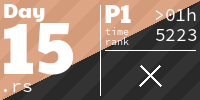
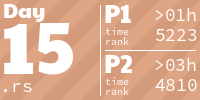
day 15 - part 2

diff --git a/src/day15.rs b/src/day15.rs
@@ -42,6 +42,7 @@ fn p1(input: &str) -> i32 {
                 }
                 // see if we can move them
                 if matrix.get(&nx_box) == Some('.') {
+                    // move boxes
                     matrix.set(&nx_box, 'O');
                     matrix.set(&nx, '.');
                     robot = nx;
@@ -59,50 +60,160 @@ fn p1(input: &str) -> i32 {
 // p2
 //--------------------------------------------------------------------------------
 
+impl Matrix<char> {
+    fn put_box_at(&mut self, pos: V2) -> &mut Self {
+        self.set(&pos, '[');
+        self.set(&pos.add(&V2::RIGHT), ']');
+        self
+    }
+
+    fn put_hori_boxes_at(&mut self, pos: V2, nb: i32) -> &mut Self {
+        for i in 0..nb {
+            self.put_box_at(pos.add(&V2::RIGHT.scale(2 * i)));
+        }
+        self
+    }
+}
+
+fn can_move_boxes_in_dir(matrix: &mut Matrix<char>, box_to_check: V2, dir: V2) -> bool {
+    let mut boxes_to_move_up = vec![];
+    let mut boxes_to_check = vec![box_to_check];
+    while let Some(box_to_check) = boxes_to_check.pop() {
+        boxes_to_move_up.push(box_to_check);
+        let up_left = box_to_check.add(&dir);
+        let up_right = up_left.add(&V2::RIGHT);
+        match (matrix.get(&up_left), matrix.get(&up_right)) {
+            (Some('.'), Some('.')) => {
+                // nothing above... we can move up
+            }
+            (Some('.'), Some('[')) => {
+                // we have one box above, on the rigth
+                boxes_to_check.push(up_right);
+            }
+            (Some(']'), Some('.')) => {
+                // we have one box above, on the left
+                boxes_to_check.push(up_left.add(&V2::LEFT));
+            }
+            (Some('['), Some(']')) => {
+                // we have one box right above
+                boxes_to_check.push(up_left);
+            }
+            (Some(']'), Some('[')) => {
+                // we have two boxes above
+                boxes_to_check.push(up_left.add(&V2::LEFT));
+                boxes_to_check.push(up_right);
+            }
+            _ => {
+                // we can't move up
+                return false;
+            }
+        }
+    }
+    // move boxes up
+    if dir == V2::UP {
+        boxes_to_move_up.sort_by_key(|v| v.y);
+    } else {
+        boxes_to_move_up.sort_by_key(|v| -v.y);
+    }
+    for b in boxes_to_move_up {
+        matrix.set(&b, '.');
+        matrix.set(&b.add(&V2::RIGHT), '.');
+        matrix.set(&b.add(&dir), '[');
+        matrix.set(&b.add(&dir).add(&V2::RIGHT), ']');
+    }
+    true
+}
+
 fn p2(input: &str) -> i32 {
     let (map, dirs) = input.split_once("\n\n").unwrap();
     let dirs = dirs.lines().collect::<Vec<_>>().join("");
     let map2 = map
-        .chars()
-        .flat_map(|c| match c {
-            '#' => vec!['#', '#'],
-            'O' => vec!['[', ']'],
-            '.' => vec!['.', '.'],
-            '@' => vec!['@', '.'],
-            _ => vec![c],
-        })
-        .collect::<String>();
-
+        .replace("#", "##")
+        .replace("O", "[]")
+        .replace(".", "..")
+        .replace("@", "@.");
     let mut matrix = Matrix::from_str(&map2, identity);
     let mut robot = matrix.find_first('@').unwrap();
-    pp_with_robot(&mut matrix, robot);
-    // matrix.set(&robot, '.');
-    //
-    // for c in dirs.chars() {
-    //     let dir = char_dir_to_v2(c);
-    //     let nx = robot.add(&dir);
-    //     match matrix.get(&nx) {
-    //         Some('.') => robot = nx,
-    //         Some('O') => {
-    //             // count how many boxes we have
-    //             let mut nx_box = nx;
-    //             while matrix.get(&nx_box) == Some('O') {
-    //                 nx_box = nx_box.add(&dir);
-    //             }
-    //             // see if we can move them
-    //             if matrix.get(&nx_box) == Some('.') {
-    //                 matrix.set(&nx_box, 'O');
-    //                 matrix.set(&nx, '.');
-    //                 robot = nx;
-    //             }
-    //         }
-    //         _ => {}
-    //     }
-    // }
-    // // pp_with_robot(&mut matrix, robot);
-    // let boxes = matrix.find_all('O');
-    // boxes.iter().map(|v| v.x + v.y * 100).sum()
-    10
+    matrix.set(&robot, '.');
+
+    for c in dirs.chars() {
+        // pp_with_robot(&mut matrix, robot);
+        // println!("[DDA] day15:: trying to move {}", c);
+        let dir = char_dir_to_v2(c);
+        matrix.set(&robot, '.');
+        let nx = robot.add(&dir);
+        match matrix.get(&nx) {
+            Some('.') => {
+                robot = nx;
+            }
+
+            Some(']') => {
+                match dir {
+                    V2::LEFT => {
+                        // count how many boxes we have
+                        let mut nx_box = nx.add(&dir).add(&dir);
+                        let mut nb_boxes = 1;
+                        while matrix.get(&nx_box) == Some(']') {
+                            nx_box = nx_box.add(&dir).add(&dir);
+                            nb_boxes += 1;
+                        }
+                        // see if we can move them
+                        if matrix.get(&nx_box) == Some('.') {
+                            matrix.put_hori_boxes_at(nx_box, nb_boxes);
+                            matrix.set(&robot, '.');
+                            robot = nx;
+                        }
+                    }
+                    V2::UP => {
+                        if can_move_boxes_in_dir(&mut matrix, nx.add(&V2::LEFT), V2::UP) {
+                            robot = nx;
+                        }
+                    }
+                    V2::DOWN => {
+                        if can_move_boxes_in_dir(&mut matrix, nx.add(&V2::LEFT), V2::DOWN) {
+                            robot = nx;
+                        }
+                    }
+                    _ => {}
+                }
+            }
+
+            Some('[') => {
+                match dir {
+                    V2::RIGHT => {
+                        // count how many boxes we have
+                        let mut nx_box = nx.add(&dir).add(&dir);
+                        let mut nb_boxes = 1;
+                        while matrix.get(&nx_box) == Some('[') {
+                            nx_box = nx_box.add(&dir).add(&dir);
+                            nb_boxes += 1;
+                        }
+                        // see if we can move them
+                        if matrix.get(&nx_box) == Some('.') {
+                            matrix.put_hori_boxes_at(nx.add(&dir), nb_boxes);
+                            robot = nx;
+                        }
+                    }
+                    V2::UP => {
+                        if can_move_boxes_in_dir(&mut matrix, nx, V2::UP) {
+                            robot = nx;
+                        }
+                    }
+                    V2::DOWN => {
+                        if can_move_boxes_in_dir(&mut matrix, nx, V2::DOWN) {
+                            robot = nx;
+                        }
+                    }
+                    _ => {}
+                }
+            }
+
+            _ => {}
+        }
+    }
+    // pp_with_robot(&mut matrix, robot);
+    let boxes = matrix.find_all('[');
+    boxes.iter().map(|v| v.x + v.y * 100).sum()
 }
 
 //--------------------------------------------------------------------------------
@@ -111,10 +222,11 @@ fn p2(input: &str) -> i32 {
 
 pub fn run() {
     pp_day("day15: Warehouse Woes");
-    // time_it(p1, "p1", "data/15_sample_small.txt");
-    // time_it(p1, "p1", "data/15_sample.txt");
-    // time_it(p1, "p2", "data/15_input.txt");
+    time_it(p1, "p1", "data/15_sample_small.txt");
+    time_it(p1, "p1", "data/15_sample.txt");
+    time_it(p1, "p1", "data/15_input.txt");
     time_it(p2, "p2", "data/15_sample.txt");
+    time_it(p2, "p2", "data/15_input.txt");
 }
 
 #[cfg(test)]
@@ -125,5 +237,6 @@ mod tests {
     fn test() {
         assert_eq!(run_it(p1, "data/15_sample.txt"), 10092);
         assert_eq!(run_it(p1, "data/15_sample_small.txt"), 2028);
+        assert_eq!(run_it(p2, "data/15_sample.txt"), 9021);
     }
 }

diff --git a/README.md b/README.md
@@ -1,6 +1,6 @@
 <!-- AOC TILES BEGIN -->
 <h1 align="center">
-  2024 - 29 ⭐ - Rust
+  2024 - 30 ⭐ - Rust
 </h1>
 <a href="src/day01.rs">
   <img src=".aoc_tiles/tiles/2024/01.png" width="161px">
